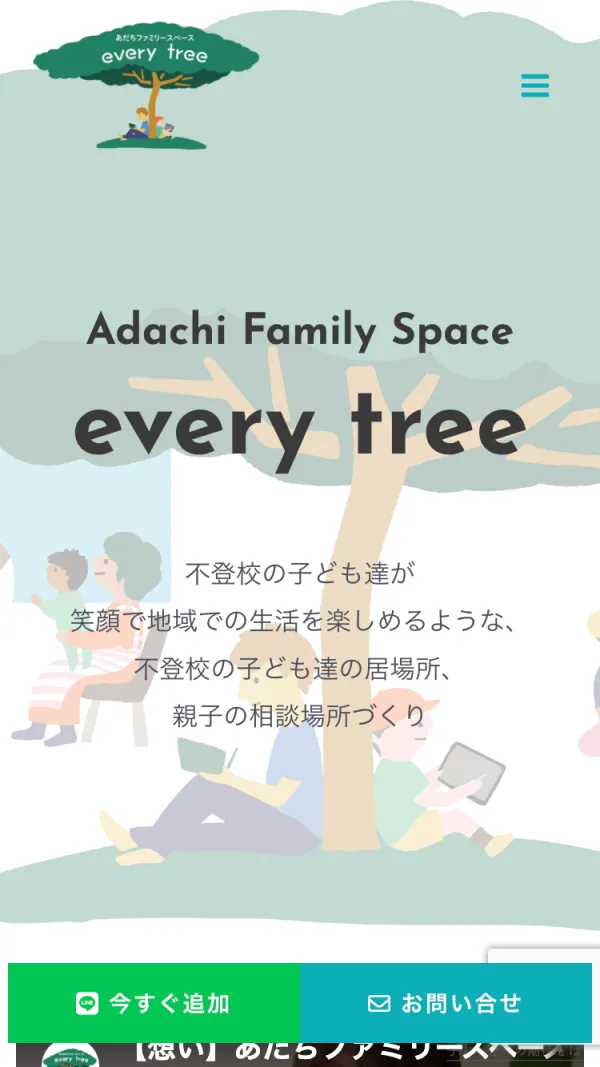
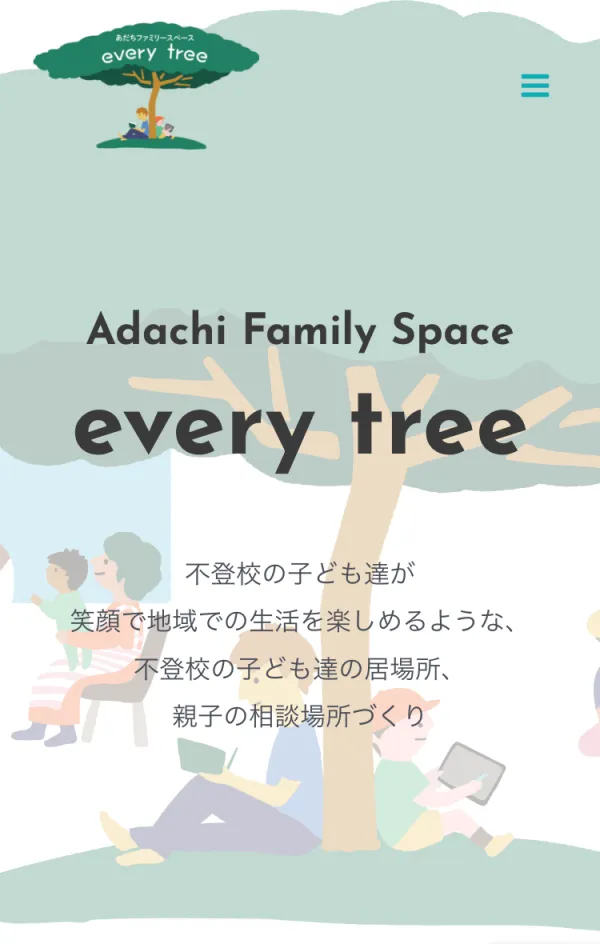
詳細ページの見た目を調整

diff --git a/css/style.css b/css/style.css
@@ -1092,10 +1092,11 @@ body:has(.lightbox[open]) {
   margin-left: calc(var(--crop-x) / var(--crop-w) * -100%);
 }
 
-/* 作品名も <wbr> の位置（と半角スペース）だけで改行する */
+/* 作品名も <wbr> の位置（と半角スペース）だけで改行する。
+   下の Six Caps の見出し（PC・2026 など）より弱く見えないよう、大きめにする */
 .work-detail__title {
   margin-top: var(--space-l);
-  font-size: 24px;
+  font-size: 28px;
   font-weight: 700;
   line-height: 1.5;
   letter-spacing: 0.04em;
@@ -1153,9 +1154,15 @@ body:has(.lightbox[open]) {
   overflow-wrap: anywhere;
 }
 
-/* 1ページで複数の版（竜二の 2026 / 2023）を見せるときの区切り。見出しは .section-title */
+/* 1ページで複数の版（竜二の 2026 / 2023）を見せるときの区切り。
+   見出しは .section-title を使い、作品名（h1）より目立たないよう小さくする。
+   スマホは .section-title の最小値 48px のまま（h3 の 40px より大きく保つ） */
 .work-version {
   margin-top: var(--space-xl);
+}
+
+.work-version > .section-title {
+  font-size: clamp(48px, 6vw, 64px);
 }
 
 .work-version__shots {
@@ -1179,11 +1186,8 @@ body:has(.lightbox[open]) {
 }
 
 /* 担当した作業の箇条書き（キャプチャを載せない保守案件用）。
-   情報の dl（.info-list）と同じく、細い線で項目を区切る */
-.task-list {
-  border-top: 1px solid var(--color-line-light);
-}
-
+   情報の dl（.info-list）と同じく、各項目の下の細い線で区切る。
+   上は見出しの下線があるので、線を足さない */
 .task-list li {
   padding-block: var(--space-s);
   border-bottom: 1px solid var(--color-line-light);
@@ -1276,7 +1280,7 @@ body:has(.lightbox[open]) {
   }
 
   .work-detail__title {
-    font-size: 32px;
+    font-size: 40px;
   }
 
   .work-detail__lead {

diff --git a/works/every-tree/index.html b/works/every-tree/index.html
@@ -90,13 +90,13 @@
           <ul class="shot-list shot-list--sp">
             <li class="shot">
               <button class="shot__zoom" type="button" data-large="../../images/works/every-tree/sp-hero-large.webp" aria-haspopup="dialog" aria-label="トップページのファーストビュー（スマホ表示）を拡大表示">
-                <img src="../../images/works/every-tree/sp-hero.webp" alt="トップページのファーストビュー（スマホ表示）" width="600" height="1067" loading="lazy">
+                <img src="../../images/works/every-tree/sp-hero.webp" alt="トップページのファーストビュー（スマホ表示）" width="600" height="944" loading="lazy">
               </button>
               <p class="shot__caption">スマホでも<wbr>イラストの木が<wbr>主役になるよう、<wbr>縦長の画面に<wbr>合わせて<wbr>組み替えています。</p>
             </li>
             <li class="shot">
               <button class="shot__zoom" type="button" data-large="../../images/works/every-tree/sp-services-large.webp" data-lightbox="tall" aria-haspopup="dialog" aria-label="サービス紹介（スマホ表示）を拡大表示">
-                <img src="../../images/works/every-tree/sp-services.webp" alt="サービス紹介（スマホ表示）" width="600" height="1067" loading="lazy">
+                <img src="../../images/works/every-tree/sp-services.webp" alt="サービス紹介（スマホ表示）" width="600" height="948" loading="lazy">
               </button>
               <p class="shot__caption">スマホでは<wbr>左右交互の配置を<wbr>1列にし、<wbr>イラストと<wbr>説明文を<wbr>順番に<wbr>読めるように<wbr>しました。</p>
             </li>
